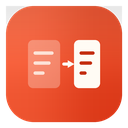
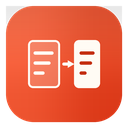
图标左栏加暖白描边，提升小尺寸辨识度

Changed region(s): [[0.2188, 0.3125, 0.4688, 0.6875]]

diff --git a/design-previews/2026-09-16-icons/generate_icons.py b/design-previews/2026-09-16-icons/generate_icons.py
@@ -114,10 +114,11 @@ def icon_panel():
     img = base_tile()
     ov = layer()
     d = ImageDraw.Draw(ov)
-    d.rounded_rectangle([224, 320, 480, 704], radius=40, fill=(255, 251, 244, 74))
-    bar(d, 268, 424, 428, 26, (255, 251, 244, 215))
-    bar(d, 268, 504, 404, 26, (255, 251, 244, 215))
-    bar(d, 268, 584, 356, 26, (255, 251, 244, 215))
+    d.rounded_rectangle([224, 320, 480, 704], radius=40,
+                        fill=(255, 251, 244, 54), outline=CREAM, width=16)
+    bar(d, 268, 424, 428, 26, CREAM)
+    bar(d, 268, 504, 404, 26, CREAM)
+    bar(d, 268, 584, 356, 26, CREAM)
     img = Image.alpha_composite(img, ov)
     ov = layer()
     d = ImageDraw.Draw(ov)
